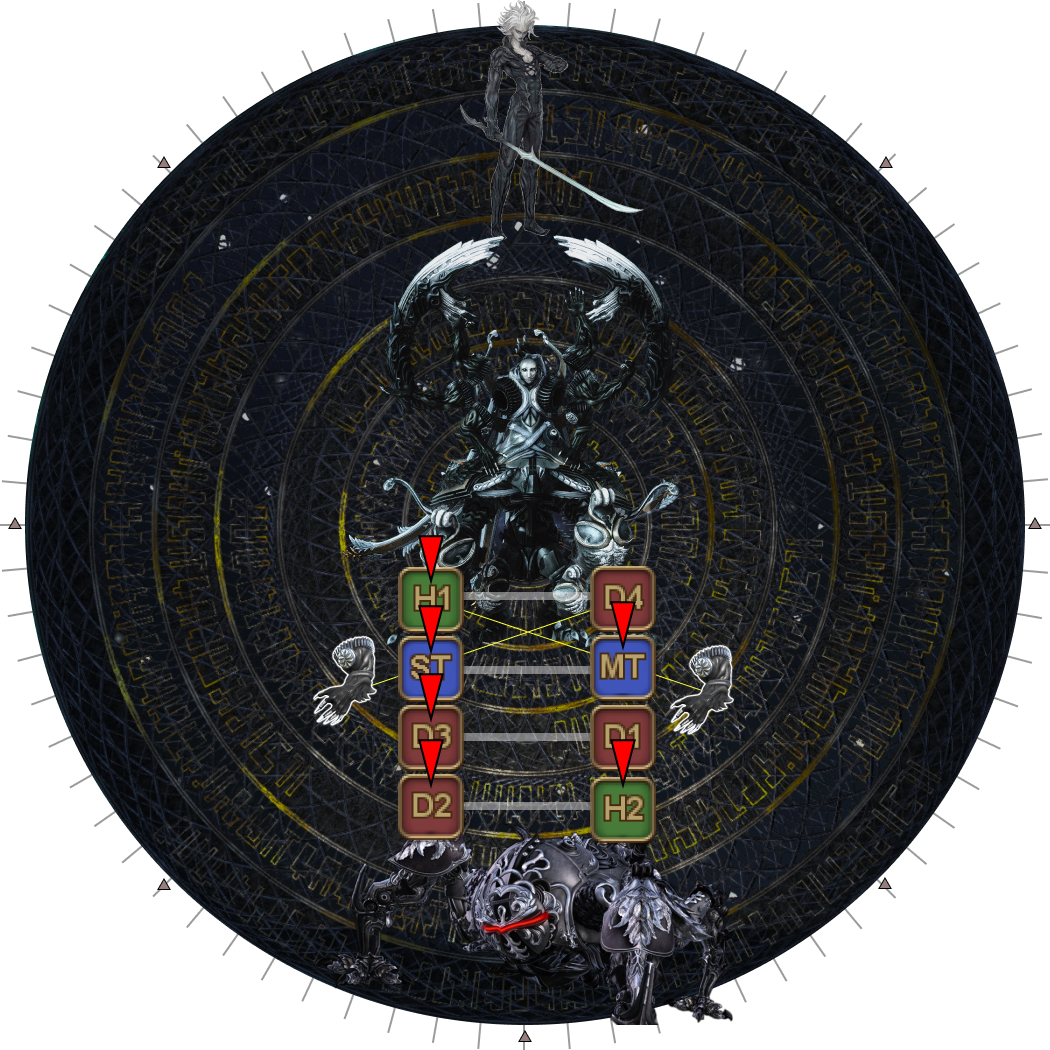
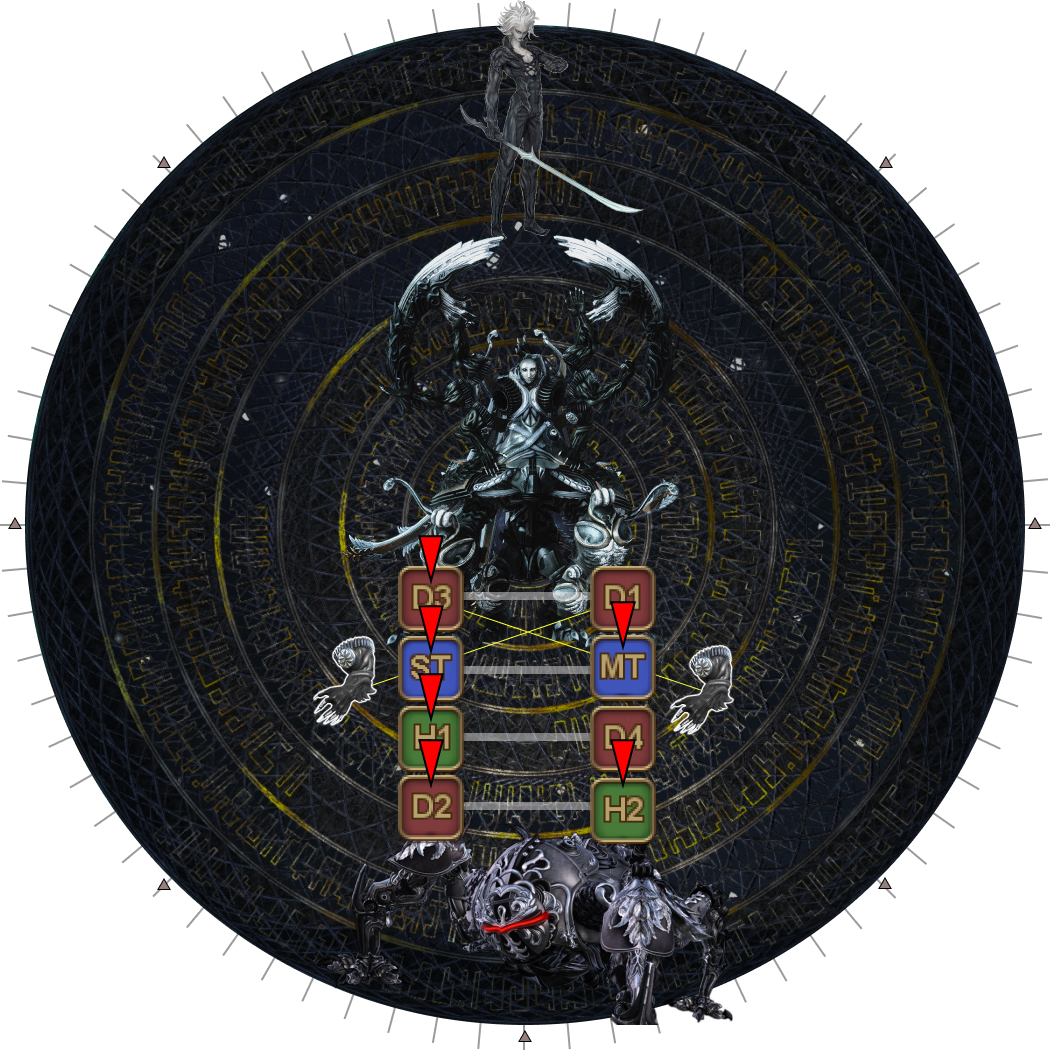
Correct Sigma's spread positions

diff --git a/ultimates/top/en/05_run_dynamis.md b/ultimates/top/en/05_run_dynamis.md
@@ -295,8 +295,8 @@ Sigma is split into three parts:
       </li>
       <li><p><em>Pairs with one marker:</em></p>
         <ul>
-          <li><em>H1 and D4 are the top pair.</em></li>
-          <li><em>D3 and D1 are the bottom pair.</em></li>
+          <li><em>D3 and D1 are the top pair.</em></li>
+          <li><em>H1 and D4 are the bottom pair.</em></li>
         </ul>
       </li>
     </ul></td>
@@ -313,8 +313,8 @@ Sigma is split into three parts:
       </li>
       <li><p>Pairs with one marker:</p>
         <ul>
-          <li>The top pair resolves the left arm and goes SW/NE <em>(player without a marker goes NE)</em>.</li>
-          <li>The bottom pair resolves the right arm goes SE/NW <em>(player without a marker goes NW)</em>.</li>
+          <li>The top pair goes NW/SE <em>(player without a marker goes NW)</em>.</li>
+          <li>The bottom pair goes NE/SW <em>(player without a marker goes NE)</em>.</li>
         </ul>
       </li>
     </ul>
